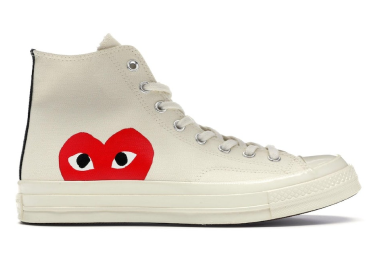
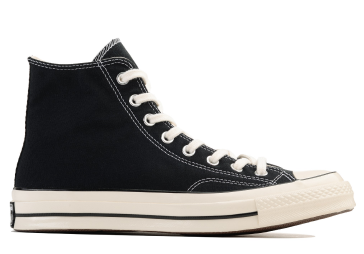
CommitNigg@ 2.0
No Racizm:)

diff --git a/index.html b/index.html
@@ -35,49 +35,67 @@
         <h2 class="subtitle">Коллекция. {Октябрь 2023}</h2>
         <div class="sneakers">
           <div class="card">
-            <img alt="Nike Air Max Plus" src="img/sneaks/1.png" class="card__image" />
-            <h3 class="card__title">Nike Air Max Plus</h3>
-            <p class="card__text">Patta FC Barcelona Culers del Món</p>
-          </div>
-          <div class="card">
-            <img alt="Jordan 1 Retro High OG SP" src="img/sneaks/2.png" class="card__image" />
-            <h3 class="card__title">Jordan 1 Retro High OG SP</h3>
-            <p class="card__text">Union LA Bephies Beauty <br> Supply Summer of ‘96</p>
-          </div>
-          <div class="card">
-            <img alt="adidas Campus 00s" src="img/sneaks/3.png" class="card__image" />
-            <h3 class="card__title">adidas Campus 00s</h3>
-            <p class="card__text">Core Black</p>
-          </div>
-          <div class="card">
-            <img alt="Converse Chuck Taylor All Star 70 Hi" src="img/sneaks/4.png" class="card__image" />
-            <h3 class="card__title">Converse Chuck Taylor <br> All Star 70 Hi</h3>
-            <p class="card__text">Comme des Garcons PLAY White</p>
-          </div>
-          <div class="card">
-            <img alt="UGG Classic Ultra Mini Boot" src="img/sneaks/5.png" class="card__image" />
-            <h3 class="card__title">UGG Classic Ultra Mini Boot</h3>
-            <p class="card__text">Chestnut (Women's)</p>
-          </div>
-          <div class="card">
             <img alt="New Balance 574 YURT" src="img/sneaks/6.png" class="card__image" />
-            <h3 class="card__title">New Balance 574 YURT</h3>
-            <p class="card__text">Salehe Bembury Shark Skin</p>
-          </div>
-          <div class="card">
-            <img alt="Jordan 1 Retro Low Golf" src="img/sneaks/7.png" class="card__image" />
-            <h3 class="card__title">Jordan 1 Retro Low Golf</h3>
-            <p class="card__text">Travis Scott Neutral Olive</p>
+              <div class="card__info">
+                <h3 class="card__title">New Balance 574 YURT</h3>
+                <p class="card__text">Salehe Bembury Shark Skin</p>
+              </div>
           </div>
           <div class="card">
             <img alt="Nike Dunk Low SP" src="img/sneaks/8.png" class="card__image" />
-            <h3 class="card__title">Nike Dunk Low SP</h3>
-            <p class="card__text">Syracuse</p>
+              <div class="card__info">
+                <h3 class="card__title">Nike Dunk Low SP</h3>
+                <p class="card__text">Nike Dunk Low Orange Blaze Syracuse</p>
+              </div>
+          </div>
+          <div class="card">
+            <img alt="Converse Chuck Taylor All Star 70 Hi" src="img/sneaks/4.png" class="card__image" />
+              <div class="card__info">
+                <h3 class="card__title">Converse Chuck 70 High</h3>
+                <p class="card__text">Comme des Garcons PLAY Black</p>
+              </div>
           </div>
           <div class="card">
             <img alt="adidas Yeezy Foam RNR" src="img/sneaks/9.png" class="card__image" />
-            <h3 class="card__title">adidas Yeezy Foam RNR</h3>
-            <p class="card__text">Desert Sand</p>
+              <div class="card__info">
+                <h3 class="card__title">adidas Yeezy Foam RNR</h3>
+                <p class="card__text">Desert Sand</p>
+              </div>
+          </div>
+          <div class="card">
+            <img alt="Nike Air Max Plus" src="img/sneaks/1.png" class="card__image" />
+              <div class="card__info">
+                <h3 class="card__title">Nike Air Max Plus</h3>
+                <p class="card__text">Patta FC Barcelona Culers del Món</p>
+              </div>
+          </div>
+          <div class="card">
+            <img alt="Jordan 1 Retro High OG SP" src="img/sneaks/2.png" class="card__image" />
+              <div class="card__info">
+                <h3 class="card__title">Jordan 1 Retro High OG SP</h3>
+                <p class="card__text">Union LA Bephies Beauty <br> Supply Summer of ‘96</p>
+              </div>
+          </div>
+          <div class="card">
+            <img alt="adidas Campus 00s" src="img/sneaks/3.png" class="card__image" />
+              <div class="card__info">
+                <h3 class="card__title">adidas Campus 00s</h3>
+                <p class="card__text">Core Black</p>
+              </div>
+          </div>
+          <div class="card">
+            <img alt="UGG Classic Ultra Mini Boot" src="img/sneaks/5.png" class="card__image" />
+              <div class="card__info">
+                <h3 class="card__title">UGG Classic Ultra Mini Boot</h3>
+                <p class="card__text">Chestnut (Women's)</p>
+              </div>
+          </div>
+          <div class="card">
+            <img alt="Jordan 1 Retro Low Golf" src="img/sneaks/7.png" class="card__image" />
+              <div class="card__info">
+                <h3 class="card__title">Jordan 1 Retro Low Golf</h3>
+                <p class="card__text">Travis Scott Neutral Olive</p>
+              </div>
           </div>
         </div>
     </div>

diff --git a/style.css b/style.css
@@ -30,6 +30,7 @@ h2 {
   color: #121723;
 	font-size: 48px;
   font-weight: 700;
+  margin: 32px 0;
 }
 .container {
   width: 100%;
@@ -58,6 +59,7 @@ p {
 .header {
   background: white;
   padding: 20px 0px;
+  border-bottom: 1px solid #676B73;
 }
 .header__inner {
   display: flex;
@@ -86,27 +88,38 @@ p {
 }
 /*Content*/
 .content {
-  margin-bottom: 50px;
+  margin-bottom: 32px;
 }
 /*Sneakers*/
 
 .sneakers {
 	display: flex;
-  gap: 25px;
+  gap: 24px;
   flex-wrap: wrap;
-  
 }
 
 .card {
   display: flex;
   flex-wrap: wrap;
   flex-direction: column;
-  justify-content: flex-end;
+  justify-content: center;
   flex: 1 1 0;
   border-radius: 12px;
-  padding: 32px 24px 32px 24px;
   background: white;
 }
+
+.card__info {
+  padding: 32px 24px;
+}
+
+.card__title h3 {
+  line-height: 0.5;
+}
+
+.card__text {
+  margin: 0;
+}
+
 .card__image {
   max-width: 370px;
 }
@@ -158,6 +171,33 @@ p {
   text-align: center;
   padding: 20px 0;
   border-top: 1px solid #A1A6B4;
+}
+/*Versia de la Mobila*/
+@media screen and (max-width:768px) {
+  
+  .container {
+    padding: 0 16px;
+  }
+  
+  .header__inner {
+    flex-direction: column;
+    align-items: center;
+    gap: 24px;
+  }
+
+  h2 {
+    font-size: 32px;
+  }
+
+  .card__image {
+    max-width: 343px;
+  }
+
+  .footer__inner {
+    flex-direction: column;
+    align-items: center;
+    gap: 24px;
+  }
 }
 
 /*Page-Sneaker------------------------------------------------------------*/

diff --git a/pages/sneaker/index.html b/pages/sneaker/index.html
@@ -10,9 +10,9 @@
   <header class="header">
     <div class="container">
       <div class="header__inner">
-        <div class="header__logo">
+        <a href="/index.html" class="header__logo">
           <img src="/img/logo.svg" alt="Кроссы — и точка.">
-        </div>
+        </a>
           <nav class="nav">
             <ul class="menu">
               <li >
@@ -33,8 +33,8 @@
   
   <div class="sneaker">
     <div class="container">
-      <div class="sneaker__content"> 
-        <img src="/pages/sneaker/page_img/1-big__img.jpg" alt="Nike" class="sneaker__img">
+      <div class="sneaker__content">
+            <img src="/pages/sneaker/page_img/1-big__img.jpg" alt="Nike" class="sneaker__img">
         <div class="sneaker__title">
           <h2>Nike Dunk Low SP</h2>
         </div>
@@ -74,9 +74,9 @@
   <footer class="footer">
     <div class="container">
       <div class="footer__inner">
-        <div class="footer__logo">
+        <a href="/index.html" class="footer__logo">
           <img src="/img/logo2.svg" alt="Кроссы — и точка.">
-        </div>
+        </a>
         <nav class="nav">
           <ul class="menu__footer">
             <li >
